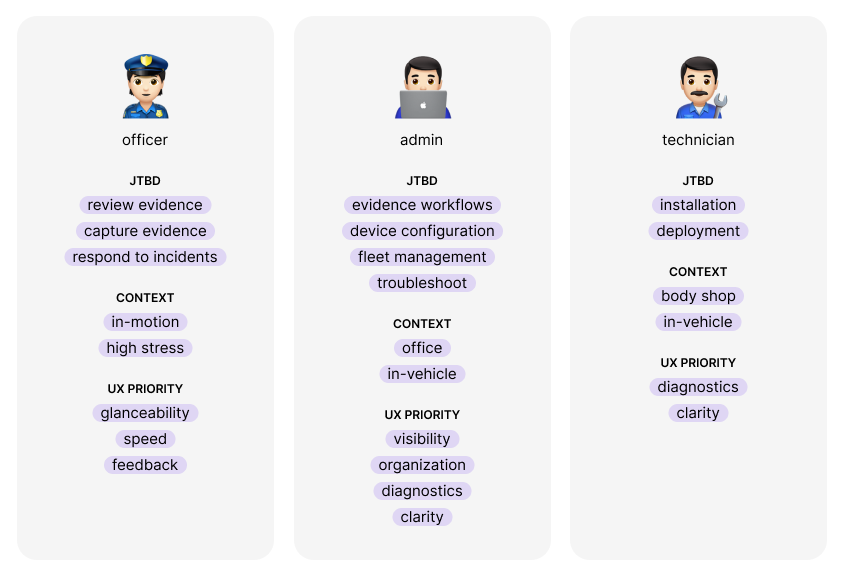
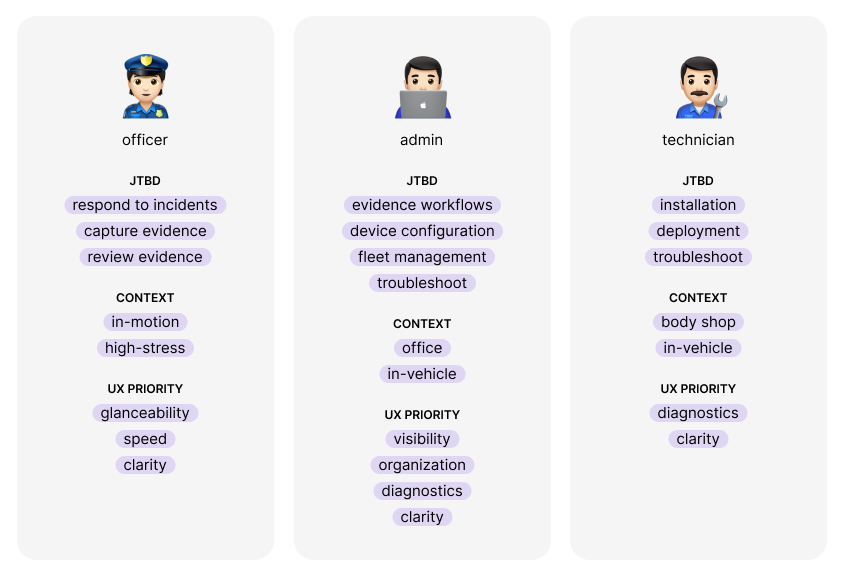
updated m500 project desc

diff --git a/msi-icv.html b/msi-icv.html
@@ -100,9 +100,8 @@
                     <h6>RESEARCH + INSIGHTS</h6>
                     <p class="content-mrg">
                         Ride-alongs and contextual interviews revealed that officers relied heavily on <strong>muscle memory, audio confirmation, and glanceable visual cues </strong>while interacting with the system in motion.
-
-                        Research also surfaced a recurring trust issue:
-                        users often felt uncertain whether recordings had successfully started, increasing cognitive stress during critical moments.
+                        Research also surfaced recurring trust issues: users were often uncertain whether recordings had successfully started, whether body cameras were properly synced with the in-car system, or whether evidence tags had carried across devices correctly — increasing cognitive stress during critical moments.
+                    </p>
                 </div>
             </div>
             <div class="row justify-content-center mrg-top-btm">
@@ -113,43 +112,107 @@
                         The in-car experience needed to support rapid decision-making under <strong>motion, glare, vibration, time pressure, and divided attention</strong> — while remaining efficient with critical workflows spanning connected devices and backend evidence systems. 
                     </p>
                     <p>While simultaneously driving or responding to incident, officers often need to:</p>
-                    <img class="img-mrg img-fluid" src="assets/images/officer jtbd.png"/>
+                    <img class="img-mrg img-fluid" src="assets/images/officer jtbd.svg"/>
                     <br/>
                     <p>The challenge was not maximizing feature visibility — it was <strong>reducing cognitive effort while preserving trust and situational awareness</strong>.</p>                
                 </div>
                 <div class="col-md-10"><br class="hide" />
                     <h4 class="content-mrg hl"><span class="dot"></span>Role-specific JTBDs</h4>
-                    <img class="img-mrg img-fluid" src="assets/images/m500_personas+jtbd.2.png"/>
+                    <div class="row">
+                        <div class="col-sm">
+                            <div class="card content-mrg">
+                                <div class="card-body text-center">
+                                    <h1 class="display-3 card-title">👮🏻</h1>
+                                    <h5>officer</h5>
+                                    <ul class="list-group list-group-flush">
+                                        <li class="list-group-item"><strong>JTBD</strong><br/>respond to incidents<br/>capture evidence<br/>review evidence</li>
+                                        <li class="list-group-item"><strong>CONTEXT</strong><br/>🚨 high-stress<br/>🚓 in-vehicle<br/>🖥️ in office</li>
+                                        <li class="list-group-item"><strong>UX PRIORITY</strong><br/>👀 glanceability<br/>🏁 speed<br/>✅ clarity</li>
+                                    </ul>
+                                </div>
+                            </div>
+                        </div>
+                        <div class="col-sm">
+                            <div class="card content-mrg">
+                                <div class="card-body text-center">
+                                    <h1 class="display-3 card-title">👨🏻💻</h1>
+                                    <h5>admin</h5>
+                                    <ul class="list-group list-group-flush">
+                                        <li class="list-group-item"><strong>JTBD</strong><br/>fleet management<br/>device configuration<br/>troubleshoot</li>
+                                        <li class="list-group-item"><strong>CONTEXT</strong><br/>🖥️ in office<br/>🚓 in-vehicle</li>
+                                        <li class="list-group-item"><strong>UX PRIORITY</strong><br/>🔍 visitbility<br/>🛠 diagnostics<br/>💡 clarity<br/>🗂️ organization</li>
+                                    </ul>
+                                </div>
+                            </div>
+                        </div>
+                        <div class="col-sm">
+                            <div class="card">
+                                <div class="card-body text-center">
+                                    <h1 class="display-3 card-title">👨🏻🔧</h1>
+                                    <h5 >technician</h5>
+                                    <ul class="list-group list-group-flush">
+                                        <li class="list-group-item"><strong>JTBD</strong><br/>installation<br/>deployment<br/>repair</li>
+                                        <li class="list-group-item"><strong>CONTEXT</strong><br/>🚧 body shop<br/>🚓 in-vehicle</li>
+                                        <li class="list-group-item"><strong>UX PRIORITY</strong><br/>🛠 diagnostics<br/>💡 clarity<br/><br/><br/></li>
+                                    </ul>
+
+                                </div>
+                            </div>
+                        </div>
+                    </div>
                     <p class="content-mrg">
-                        Another key challenge was designing for users with fundamentally different goals and operational contexts. Patrol officers needed fast, glanceable interactions optimized for high-pressure situations, while administrators and technicians required deeper system visibility, configuration controls, and evidence management workflows.
-                        Clearly defining the JTBDs for each user group helped prioritize information hierarchy, interaction patterns, and feature accessibility across the system.                    
+                        A key challenge was designing for users with different operational needs. Defining role-specific JTBDs helped shape information hierarchy, interaction patterns, and workflow prioritization across the system.
                     </p>
                 </div>
                 <div class="col-md-10"><br class="hide" />
                     <h4 class="content-mrg hl"><span class="dot"></span>Designing within a connected ecosystem</h4>
+                    <img class="img-mrg img-fluid" src="assets/images/m500_connected_systems.svg"/>
                     <p class="content-mrg">
                         Although my primary focus was the in-car interface, the experience was deeply connected to a broader ecosystem that included body cameras, mobile applications, and evidence management platforms. Many workflows extended across devices, requiring close collaboration with adjacent product teams to maintain consistency in interaction patterns, system feedback, terminology, and evidence flow continuity.
                     </p>
                 </div>
             </div>
-            <div class="row justify-content-center mrg-top-btm">
+            <!-- <div class="row justify-content-center mrg-top-btm">
                 <div class="col-md-10">
                     <br class="hide" />
                     <h6>KEY DESIGN DECISIONS</h6>
-                    <h4 class="content-mrg hl"><span class="dot"></span>Glanceable information hierarchy</h4>
-                    <p class="content-mrg">The priamry users frequently interact with the system while driving or multitasking under time pressure. In these environments, long visual scanning and dense interfaces increased cognitive load and delayed decision-making. The interface needed to support rapid recognition and confidence at a glance rather than prolonged attention.</p>
+                    <div class="row">
+                        <div class="col-sm">
+                            <div class="card content-mrg">
+                                <img src="..." class="card-img-top" alt="...">
+                                <div class="card-body">
+                                    <h5 class="card-title hl">Glanceable information hierarchy</h5>
+                                    <p class="card-text">Dense interfaces and excessive visual scanning increase cognitive load while in motion and high stress situations. The experience needed to support rapid recognition and confidence at a glance.</p>
+                                </div>
+                            </div>
+                        </div>
+                        <div class="col-sm">
+                            <div class="card content-mrg">
+                                <img src="..." class="card-img-top" alt="...">
+                                <div class="card-body">
+                                    <h5 class="card-title hl">Progressive disclosure</h5>
+                                    <p class="card-text">Surfaced only essential information upfront while allowing deeper controls when needed to reduce cognitive load for officers while still supporting admin and supervisory workflows.</p>
+                                </div>
+                            </div>
+                        </div>
+                        <div class="col-sm">
+                            <div class="card content-mrg">
+                                <img src="assets/images/" class="card-img-top" alt="cross-plateform interaction">
+                                <div class="card-body">
+                                    <h5 class="card-title hl">Cross-platform interaction consistency</h5>
+                                    <p class="card-text">Aligned interaction patterns and system feedback across in-car, body camera, and evidence workflows to reduce uncertainty, context switching, and trust issues across connected systems.</p>
+                                </div>
+                            </div>
+                        </div>
+                    </div>
                 </div>
-                <div class="col-md-10"><br class="hide" />
-                    <h4 class="content-mrg hl"><span class="dot"></span>Progressive disclosure to balance speed vs depth of information</h4>
-                    <p class="content-mrg">Different user roles and operational contexts required different levels of information depth. Officers in active situations prioritized speed and clarity, while administrators or reviewers occasionally needed more detailed controls and evidence data. Progressive disclosure reduced interface clutter without sacrificing functionality.</p>
-                </div>
-            </div>
+            </div> -->
             <div class="row justify-content-center mrg-top-btm">
                 <div class="col-md-10">
                     <br class="hide" />
                     <h6>IMPACT</h6>
                     <ul class="ul-mrg content-mrg">
-                        <li>Reduced friction across capture → review → evidence workflows</li>
+                        <li>Reduced friction across capture → tag → review workflows</li>
                         <li>Improved user confidence during high-pressure interactions</li>
                         <li>Decreased onboarding complexity through standardized interaction patterns</li>    
                         <li>Established reusable UX frameworks later adapted across additional product lines</li>                                      

diff --git a/assets/css/main.css b/assets/css/main.css
@@ -543,9 +543,9 @@ and (max-device-width : 515px) {
         font-size: 1.3rem!important;
     }
 
-    .project-show ul {
+    /* .project-show ul {
         margin-left: 1.75em;
-    }
+    } */
     
     .p0 {
        top: 0em;

diff --git a/salus.html b/salus.html
@@ -95,7 +95,6 @@
                     <h6>VIEW</h6>
                     <p>
                         <a href="//drive.google.com/file/d/1mj64lOwyy8EwYLMYPGG0v35LJBZQu7jE/view?usp=sharing" target="_blank">Secondary Research</a><br/>
-                        <a href="//drive.google.com/file/d/1ytjDGZySIBCk_qOw0r0uJHMl0uFJRyKS/view?usp=sharing" target="_blank">Task Flows</a><br/>
                         <a href="//xd.adobe.com/view/53dff492-dbf0-422d-a020-9ace53fbe5b6-068c/screen/0c8a1ca6-cf03-47ff-806f-c8b47dedf072" target="_blank">Interactive Prototype</a>
                     </p>
                 </div>